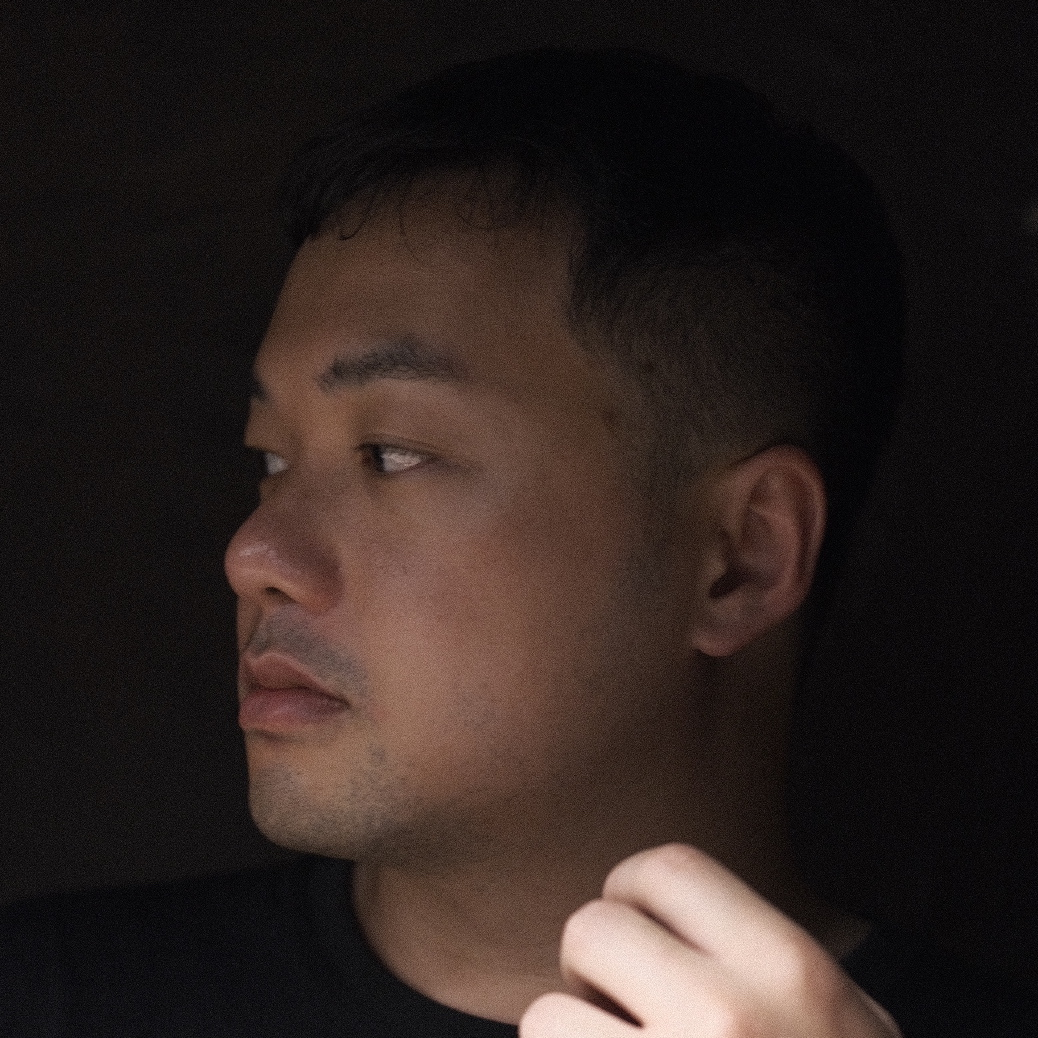
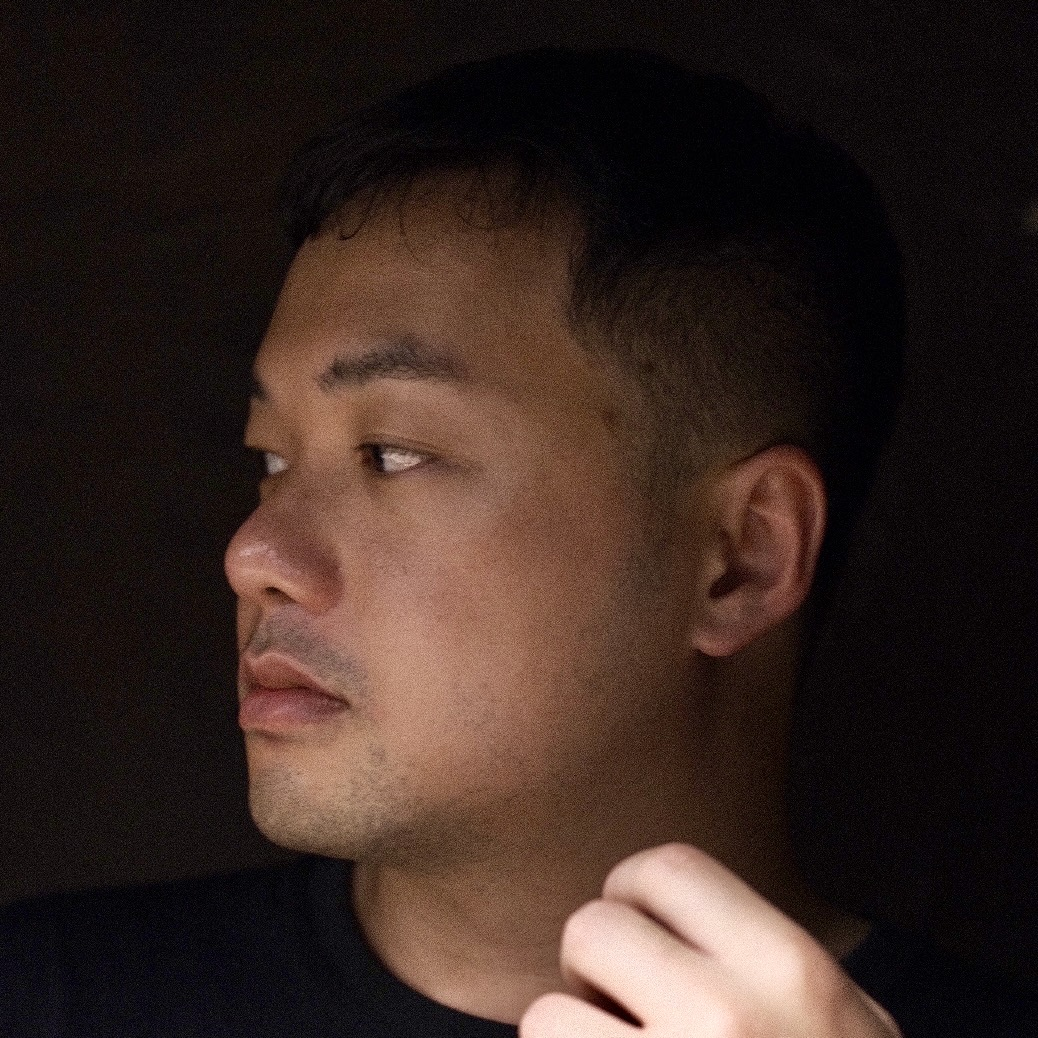
deploy: 737c0ea9d7d9bbb6364fe02ddd609ac280210b1f

Changed region(s): [[0.2158, 0.2158, 0.8015, 0.9865], [0.7091, 0.8632, 0.8632, 1.0], [0.5549, 0.9557, 0.6166, 0.9865]]

diff --git a/index.html b/index.html
@@ -1,6 +1,6 @@
 <!doctype html><html lang=en><head><title>Yenson Lau</title><meta charset=utf-8><meta name=viewport content="width=device-width,initial-scale=1"><meta name=color-scheme content="light dark"><meta name=author content="Yenson Lau"><meta name=description content="Yenson's personal website"><meta name=keywords content="blog,developer,personal"><meta name=twitter:card content="summary"><meta name=twitter:title content="Yenson Lau"><meta name=twitter:description content="Yenson's personal website"><meta property="og:title" content="Yenson Lau"><meta property="og:description" content="Yenson's personal website"><meta property="og:type" content="website"><meta property="og:url" content="https://yenson-lau.github.io/"><link rel=canonical href=https://yenson-lau.github.io/><link rel=preload href="/fonts/forkawesome-webfont.woff2?v=1.2.0" as=font type=font/woff2 crossorigin><link rel=stylesheet href=/css/coder.min.c4d7e93a158eda5a65b3df343745d2092a0a1e2170feeec909b8a89443903c6a.css integrity="sha256-xNfpOhWO2lpls980N0XSCSoKHiFw/u7JCbiolEOQPGo=" crossorigin=anonymous media=screen><link rel=stylesheet href=/css/coder-dark.min.39e41a7f16bdf8cb16e43cae7d714fa1016f1d2d2898a5b3f27f42c9979204e2.css integrity="sha256-OeQafxa9+MsW5DyufXFPoQFvHS0omKWz8n9CyZeSBOI=" crossorigin=anonymous media=screen><link rel=icon type=image/png href=/img/favicon-32x32.png sizes=32x32><link rel=icon type=image/png href=/img/favicon-16x16.png sizes=16x16><link rel=apple-touch-icon href=/images/apple-touch-icon.png><link rel=apple-touch-icon sizes=180x180 href=/images/apple-touch-icon.png><link rel=manifest href=/site.webmanifest><link rel=mask-icon href=/images/safari-pinned-tab.svg color=#5bbad5><link rel=alternate type=application/rss+xml href=/index.xml title="Yenson Lau"><meta name=generator content="Hugo 0.103.0"></head><body class="preload-transitions colorscheme-auto"><div class=float-container><a id=dark-mode-toggle class=colorscheme-toggle><i class="fa fa-adjust fa-fw" aria-hidden=true></i></a></div><main class=wrapper><nav class=navigation><section class=container><a class=navigation-title href=/>Yenson Lau</a>
 <input type=checkbox id=menu-toggle>
-<label class="menu-button float-right" for=menu-toggle><i class="fa fa-bars fa-fw" aria-hidden=true></i></label><ul class=navigation-list><li class=navigation-item><a class=navigation-link href=/about/>About Me</a></li><li class=navigation-item><a class=navigation-link href=/projects/>Projects</a></li><li class=navigation-item><a class=navigation-link href=/publications/>Publications</a></li></ul></section></nav><div class=content><section class="container centered"><div class=about><div class=avatar><img src=/images/avatar_edited.jpg alt=avatar></div><h1>Yenson Lau</h1><h2>ML Research, Engineering, NLP</h2><ul><li><a href=https://github.com/yenson-lau aria-label=Github><i class="fa fa-github fa-2x" aria-hidden=true></i></a></li><li><a href=https://www.linkedin.com/in/yensonlau/ aria-label=LinkedIn><i class="fa fa-linkedin fa-2x" aria-hidden=true></i></a></li><li><a href=https://twitter.com/yenson_lau aria-label=Twitter><i class="fa fa-twitter fa-2x" aria-hidden=true></i></a></li></ul></div></section></div><footer class=footer><section class=container>©
+<label class="menu-button float-right" for=menu-toggle><i class="fa fa-bars fa-fw" aria-hidden=true></i></label><ul class=navigation-list><li class=navigation-item><a class=navigation-link href=/about/>About Me</a></li><li class=navigation-item><a class=navigation-link href=/projects/>Projects</a></li><li class=navigation-item><a class=navigation-link href=/publications/>Publications</a></li></ul></section></nav><div class=content><section class="container centered"><div class=about><div class=avatar><img src=/images/avatar.jpg alt=avatar></div><h1>Yenson Lau</h1><h2>ML Research, Engineering, NLP</h2><ul><li><a href=https://github.com/yenson-lau aria-label=Github><i class="fa fa-github fa-2x" aria-hidden=true></i></a></li><li><a href=https://www.linkedin.com/in/yensonlau/ aria-label=LinkedIn><i class="fa fa-linkedin fa-2x" aria-hidden=true></i></a></li><li><a href=https://twitter.com/yenson_lau aria-label=Twitter><i class="fa fa-twitter fa-2x" aria-hidden=true></i></a></li></ul></div></section></div><footer class=footer><section class=container>©
 2022
 Yenson Lau
 ·
